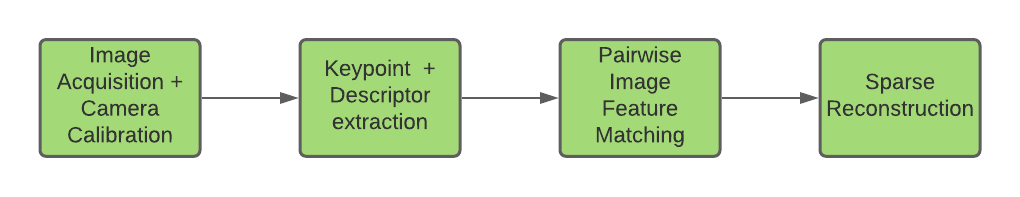
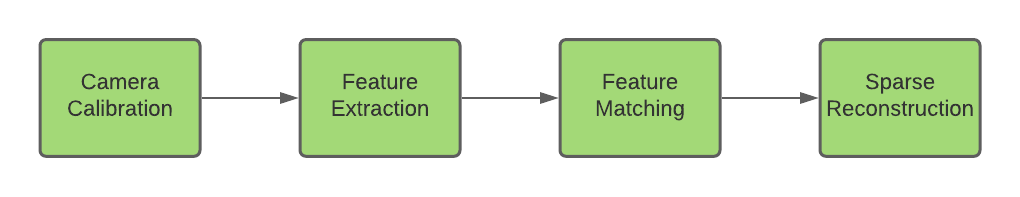
Changed simplified_sfm_pipeline + minor changes.

diff --git a/TheoreticalBackground.tex b/TheoreticalBackground.tex
@@ -20,7 +20,7 @@ In this section, we review the fundamental principles of the SfM pipeline. The S
 We shall describe the basic ideas of each stage of the pipeline, as relevant to the localization problem. 
 
 \subsection{Camera Calibration}
-Consider the case of projecting a point in 3D to a the image 2D plane, outlined in the figure below. The 2D point $\mathbf{x}$ can be described by the ray $\lambda[u v 1]$ in projective space.
+Consider the case of projecting a point in 3D to a the image 2D plane, outlined in the figure below. The 2D point $\mathbf{x}$ can be described by the ray $\lambda[u\ v\ 1]^T$ in projective space.
 
 The 3D point $\mathbf{x}$ can be projected onto the image plane by a projection matrix $\mathbf{P}$, thusly:
 
